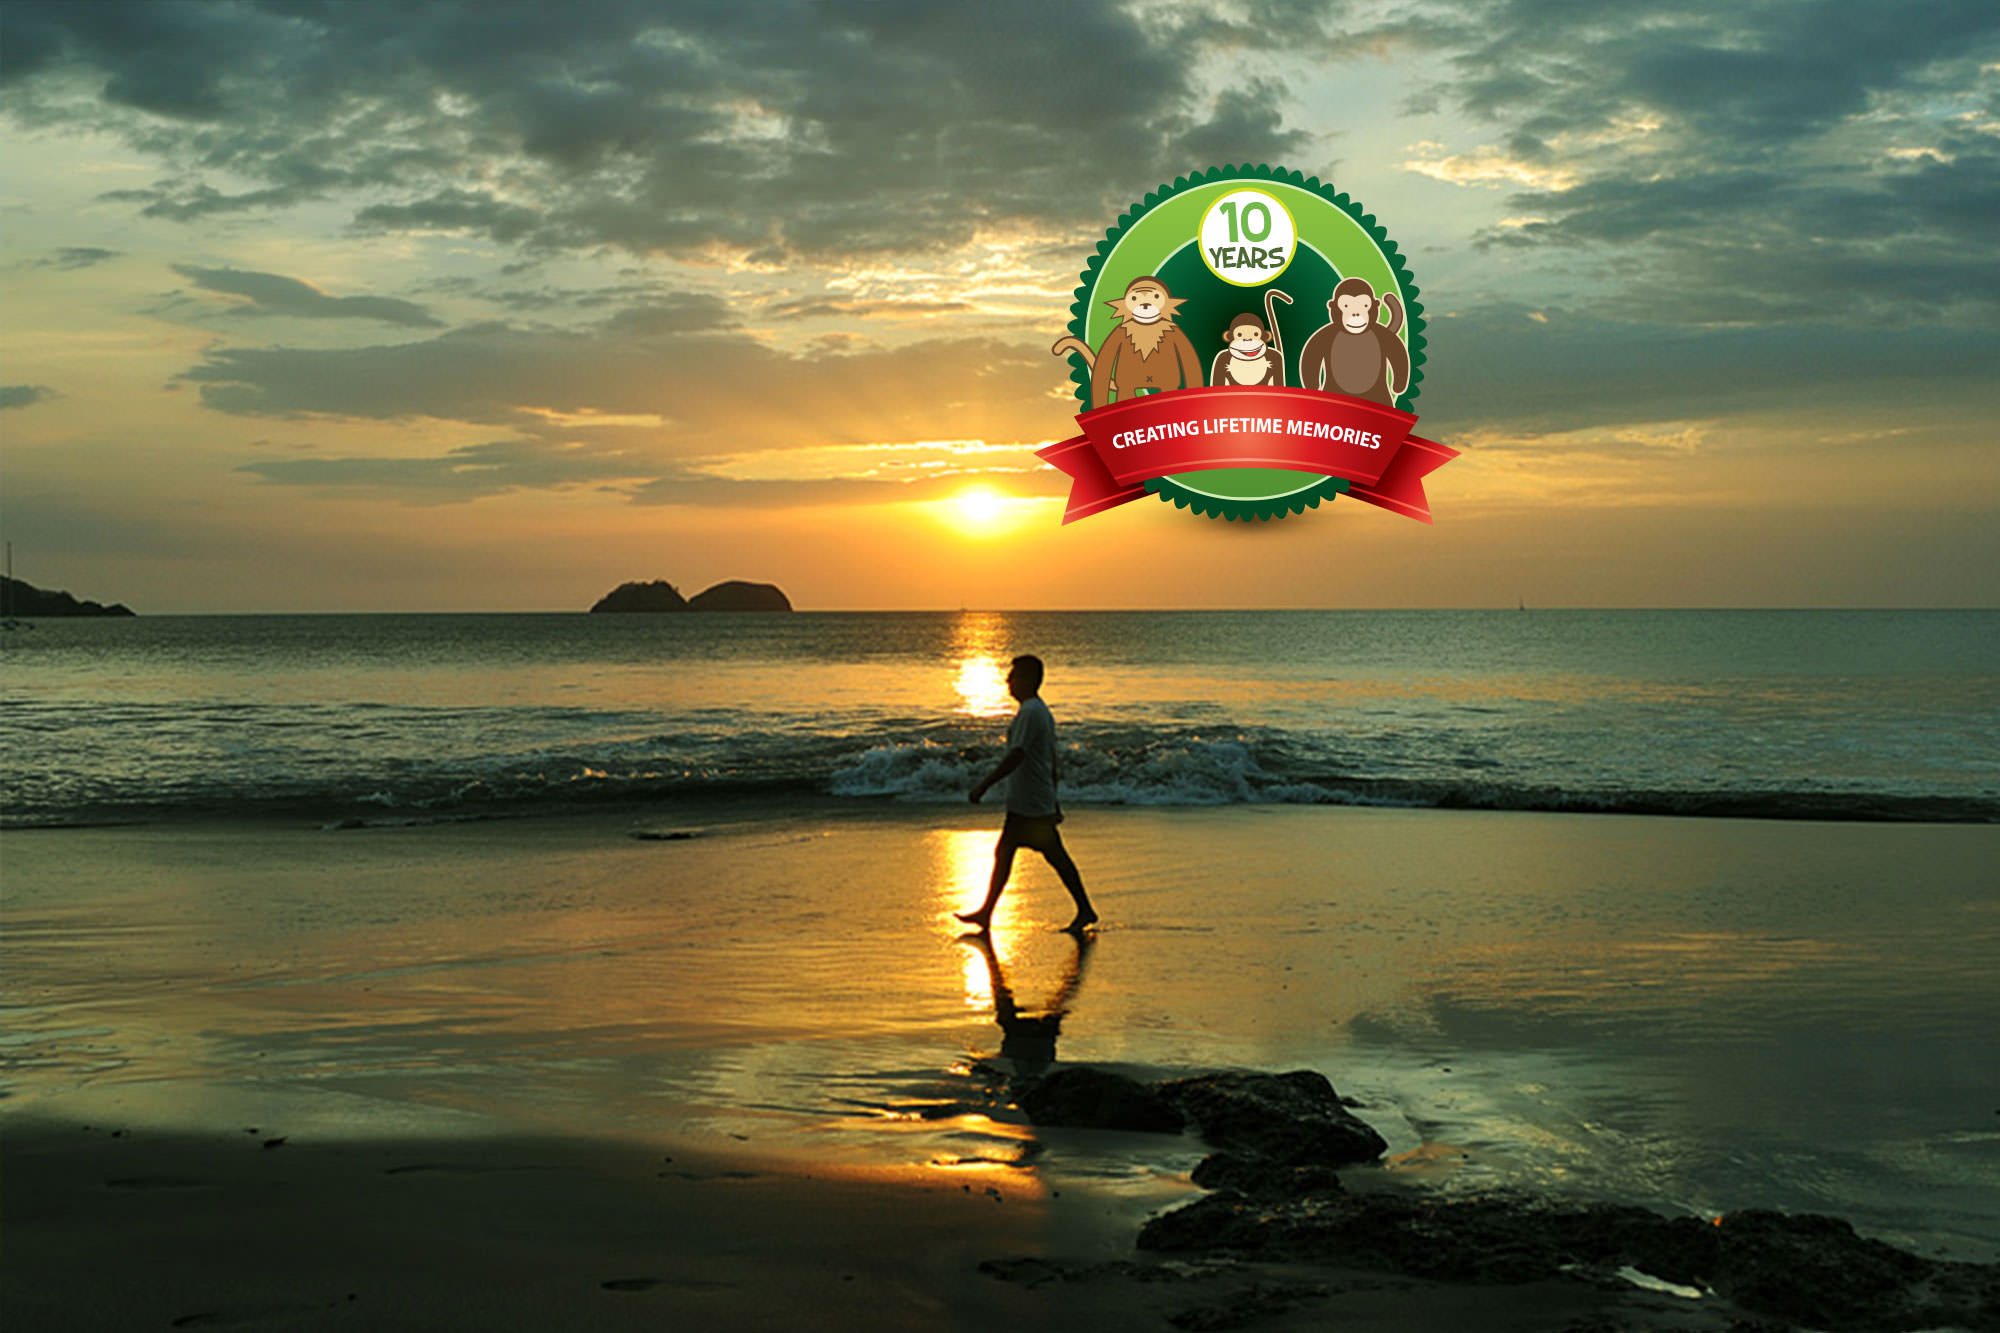
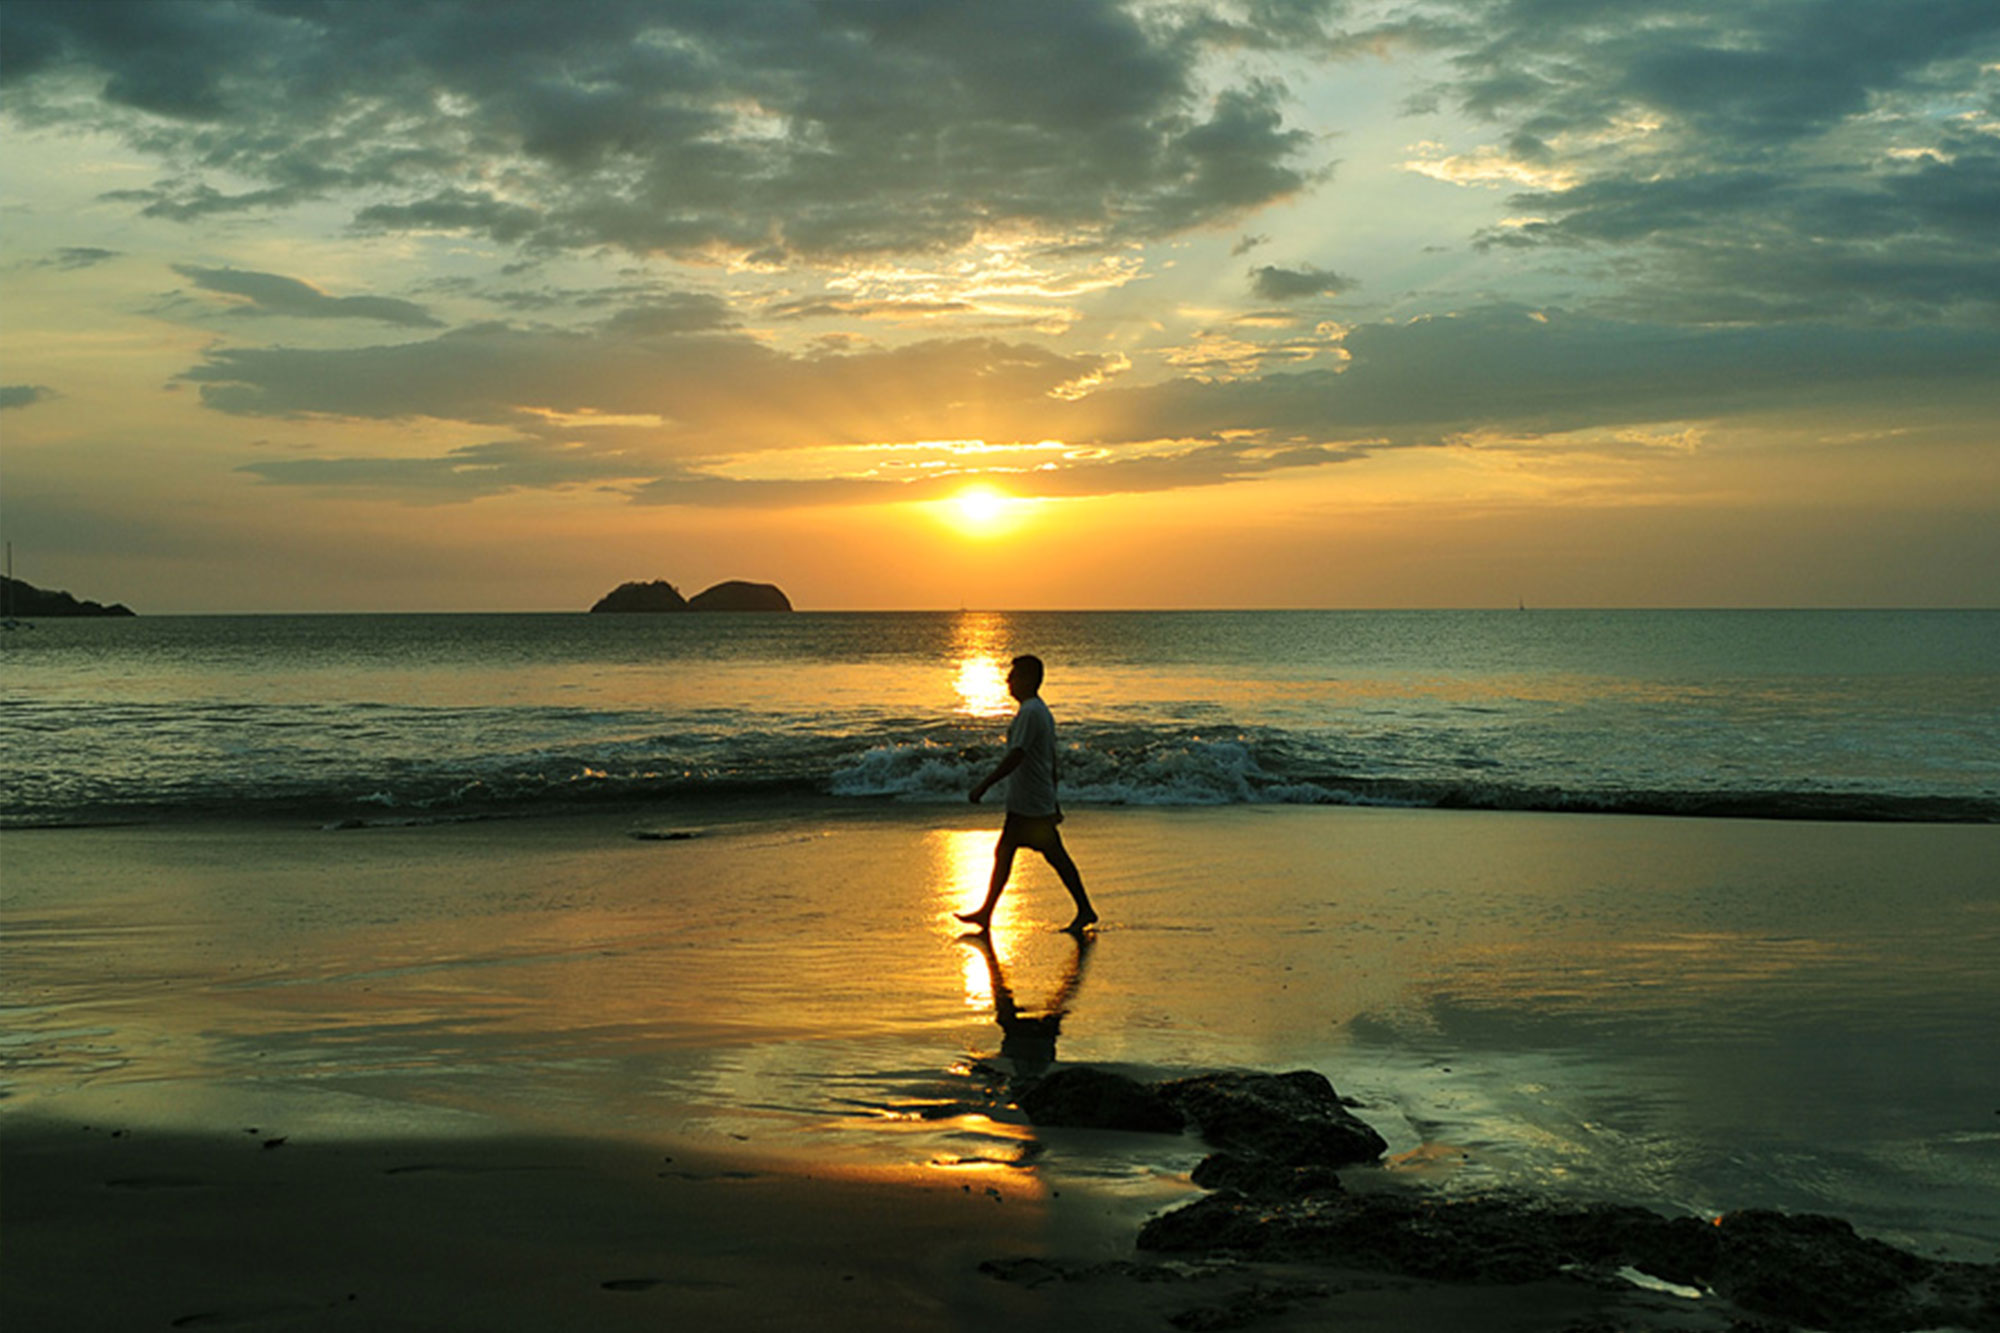
cambios legenda animacion

Changed region(s): [[0.527, 0.123, 0.744, 0.4306]]

diff --git a/templates/3monkiescr/css/main.css b/templates/3monkiescr/css/main.css
@@ -272,7 +272,9 @@ p{color:#2b3f30}
 #left-container #contenido .blog .pagination .pagination-list li a:hover{background-color:#f5f5f5}
 #left-container #contenido .blog .pagination .pagination-list .disabled > a,#left-container #contenido .blog .pagination .pagination-list .disabled > a:focus,#left-container #contenido .blog .pagination .pagination-list .active > a{color:#999}
 #right-container{float:right;margin-right:10%;overflow:hidden;width:210px;}
-#right-container #logo{background:#fff;height:130px;line-height:180px;padding-right:0;text-align:center;width:210px;}
+#right-container #logo{background:#fff;height:130px;line-height:180px;padding-right:0;position:relative;text-align:center;width:210px;}
+#right-container #logo #contenedor_legenda{background:url("../img/legend_aniversario.png") no-repeat 5px 8px #fff;display:block;width:70px;height:10px;position:absolute;right:5px;top:0;overflow:hidden;z-index:1}
+#right-container #logo #legenda{display:block;background-image:url("../img/legend_aniversario.png");position:absolute;right:10px;top:-24px;width:60px;height:53px;z-index:0}
 #right-container #logo img{margin-top:.5em}
 #right-container #menu ul{margin:.5em 0 0;padding:0;}
 #right-container #menu ul .orange:hover{background:#eeae11;opacity:1}

diff --git a/templates/3monkiescr/js/main.js b/templates/3monkiescr/js/main.js
@@ -515,6 +515,16 @@ $(function() {
 
 	});
 
+
+	//LOGO LEGENDA
+	$('#logo').hover(function(){
+
+		$('#logo #legenda').stop().animate({top: "10px"}, 500,"easeOutBounce");
+
+	},function(){
+		$('#logo #legenda').stop().animate({top: "-24px"}, 500);
+	});
+
 	
 
 

diff --git a/templates/3monkiescr/index.php b/templates/3monkiescr/index.php
@@ -91,7 +91,7 @@ $doc->addStyleSheet('templates/'.$this->template.'/css/main.css');
                 </section>
                 <section id="right-container">
                     <div id="logo">
-                        <a href="<?php echo $this->baseurl ?>"><img src="<?php echo $this->baseurl ?>/templates/3monkiescr/img/logo.png" alt="3 Mokies Logo"></a>
+                        <a href="<?php echo $this->baseurl ?>"><div id="contenedor_legenda"></div><div id="legenda"></div><img src="<?php echo $this->baseurl ?>/templates/3monkiescr/img/logo.png" alt="3 Mokies Logo"></a>
                     </div>
                     <nav id="menu">
                         <jdoc:include type="modules" name="menu" style="none" />
